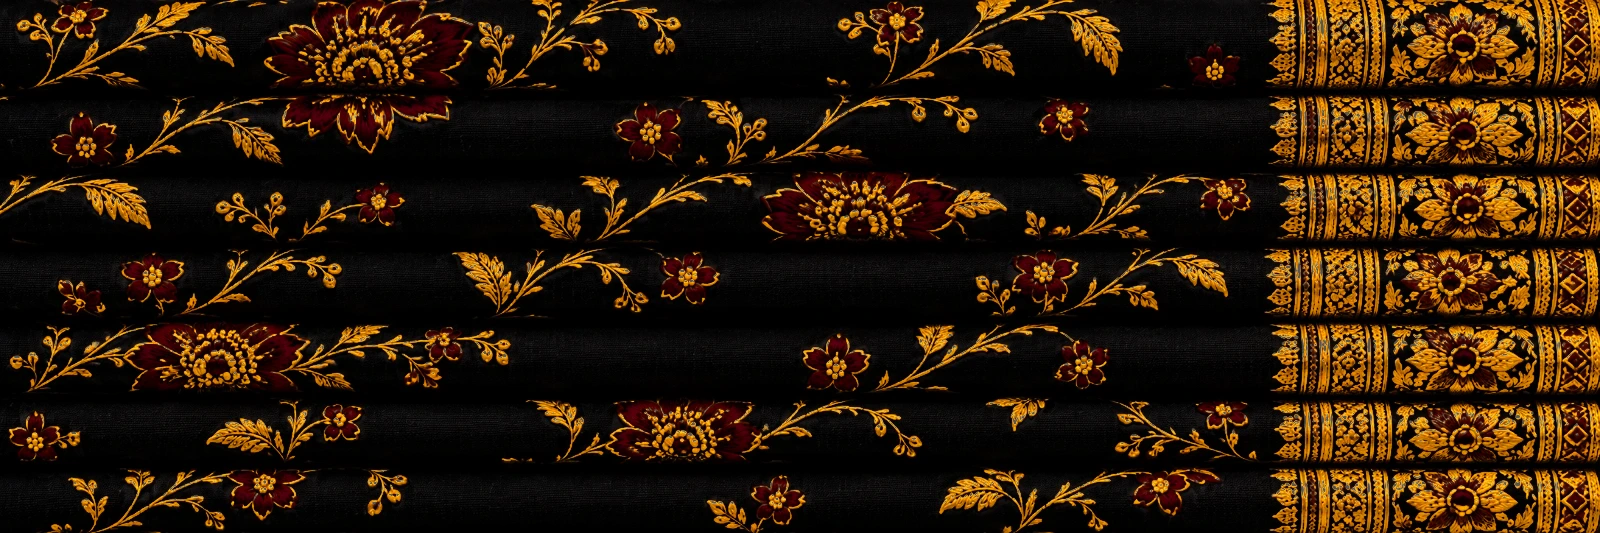
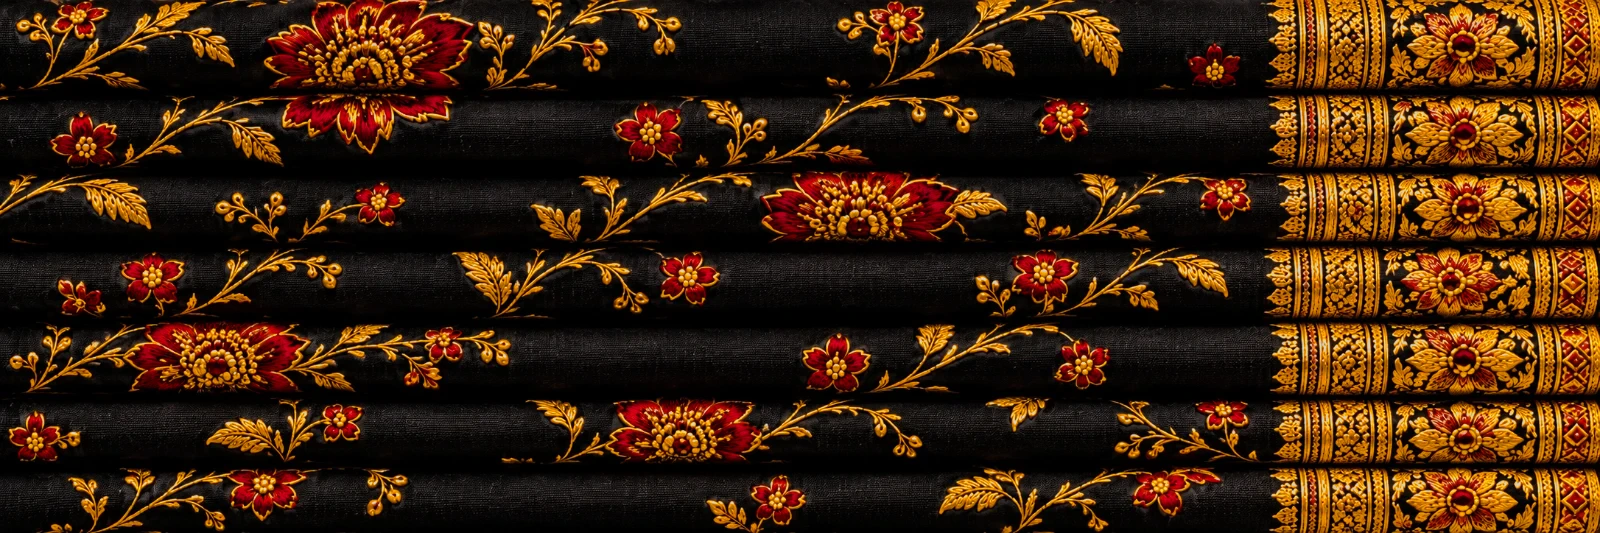
Rebuild the black saree's top texture from the reference cut-out

diff --git a/src/components/drape/data.ts b/src/components/drape/data.ts
@@ -33,6 +33,6 @@ export const SAREES: Saree[] = [
   { id: 'maroon', name: 'Banarasi Maroon', fabric: 'Pure silk · gold zari', note: 'Woven buttas and a heavy brocade border — made for the wedding day.', tags: ['Silk', 'Bridal', 'Festive'], sheen: '#ffb38a', tint: '#f7c4cc', roughness: 0.48, zari: 1, weave: 'silk', shape: { h: 0.4, hollow: 0.1, rim: 0.1, ridge: 0.032, layers: 6.5, wave: 0.024 } },
   { id: 'ivory', name: 'Ivory Organza', fabric: 'Organza · resham florals', note: 'Featherlight, with hand-embroidered pink blooms and a gota border.', tags: ['Organza', 'Bridal'], sheen: '#fff1e2', tint: '#ffffff', roughness: 0.42, zari: 0.9, weave: 'organza', shape: { h: 0.34, hollow: 0.14, rim: 0.13, ridge: 0.036, layers: 5, wave: 0.034 } },
   { id: 'navy', name: 'Midnight Velvet', fabric: 'Velvet · zardozi', note: 'Deep navy pile with raised gold zardozi and ruby stones.', tags: ['Velvet', 'Festive'], sheen: '#5d6bd6', tint: '#a3abf2', roughness: 0.85, zari: 1, weave: 'velvet', shape: { h: 0.42, hollow: 0.09, rim: 0.1, ridge: 0.03, layers: 7, wave: 0.02 } },
-  { id: 'black', name: 'Noir Silk', fabric: 'Silk · crimson resham', note: 'Black silk with crimson and gold florals for evening occasions.', tags: ['Silk', 'Festive'], sheen: '#ffd2b0', tint: '#5a5c66', roughness: 0.46, zari: 1, weave: 'silk', shape: { h: 0.38, hollow: 0.11, rim: 0.11, ridge: 0.033, layers: 6, wave: 0.028 } },
+  { id: 'black', name: 'Noir Silk', fabric: 'Silk · crimson resham', note: 'Black silk with crimson and gold florals for evening occasions.', tags: ['Silk', 'Festive'], sheen: '#ffd2b0', tint: '#dcdce2', roughness: 0.46, zari: 1, weave: 'silk', shape: { h: 0.38, hollow: 0.11, rim: 0.11, ridge: 0.033, layers: 6, wave: 0.028 } },
   { id: 'yellow', name: 'Haldi Organza', fabric: 'Organza · chikan', note: 'Sunlit yellow with ivory thread florals — a haldi favourite.', tags: ['Organza', 'Festive'], sheen: '#fff4c8', tint: '#fff2d8', roughness: 0.42, zari: 0.15, weave: 'organza', shape: { h: 0.36, hollow: 0.13, rim: 0.12, ridge: 0.035, layers: 5.5, wave: 0.03 } }
 ];

diff --git a/CLAUDE.md b/CLAUDE.md
@@ -257,6 +257,7 @@ Owner request: append an entry here after every change session.
 - **2026‑11‑05** — Owner: shorten the navbar. Past the hero (frosted/solid mode) the bar is now compact: logo `zoom: 0.68`, padding `pt-3 pb-2`, links `pt-1` → ≈75 px tall (was ≈130). The hero still shows the full-size logo; the full-screen menu state is unchanged. Edits in `Nav.tsx`.
 - **2026‑11‑05** — Owner: align the compact navbar items on one centre line. In solid mode the header is `items-center` (equal `pt-3 pb-3`), links/menu have no top offset, so logo, links and hamburger share the bar's vertical centre (bar ≈79 px). Hero layout unchanged.
 - **2026‑11‑05** — Owner: golds look washed out; reds/pinks too. `bake-drape-maps.mjs` now adds a **vibrance** pass after the tint: gold zari pixels (`goldness` mask) get saturation ×(1+0.7) and drift 35 % toward a true gold hue (≈42°); red/pink pixels (hue 316–360 & 0–16°, sat > 0.26) get ×(1+0.45); silk grounds and creams are untouched. Re-baked all `public/drape/{top,edge}-*-col.webp`. Tune `GOLD_SAT` / `RED_SAT` in the script and re-run it. Zari metalness/roughness maps unchanged.
+- **2026‑11‑05** — Owner: make the black saree match `assets/Transparent cut-outs…/Black Silk Saree with Gold Zari Embroidery.png` (black ground, crimson florals, gold sprigs, crimson + gold border). Rectified that photo's top face to a flat 1254² texture with a homography warp (quad corners in image px: (118,444) (690,25) (1450,470) (892,962) → TL,TR,BR,BL; border ends at the bottom/front) and installed it as `public/drape/top-black.webp`; the old black top texture (`Black Silk Brocade with Crimson Florals.png`) is still in `assets/`. Black tint `#5a5c66` → `#dcdce2` (the old tint was darkening the reds to brown); re-baked. Edge texture unchanged. If liked, repeat for the other four sarees from their cut-outs.
 
 ## Next / ideas
 
